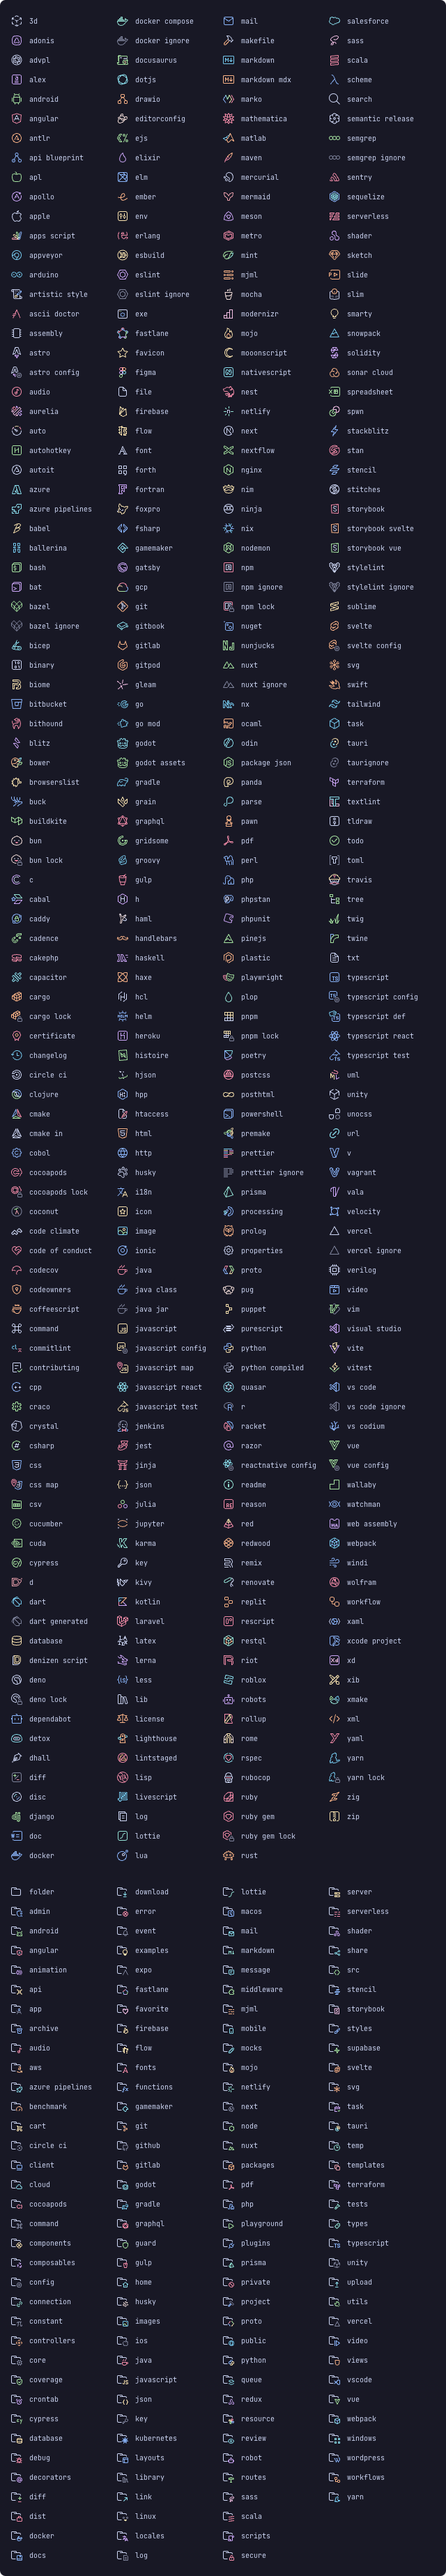
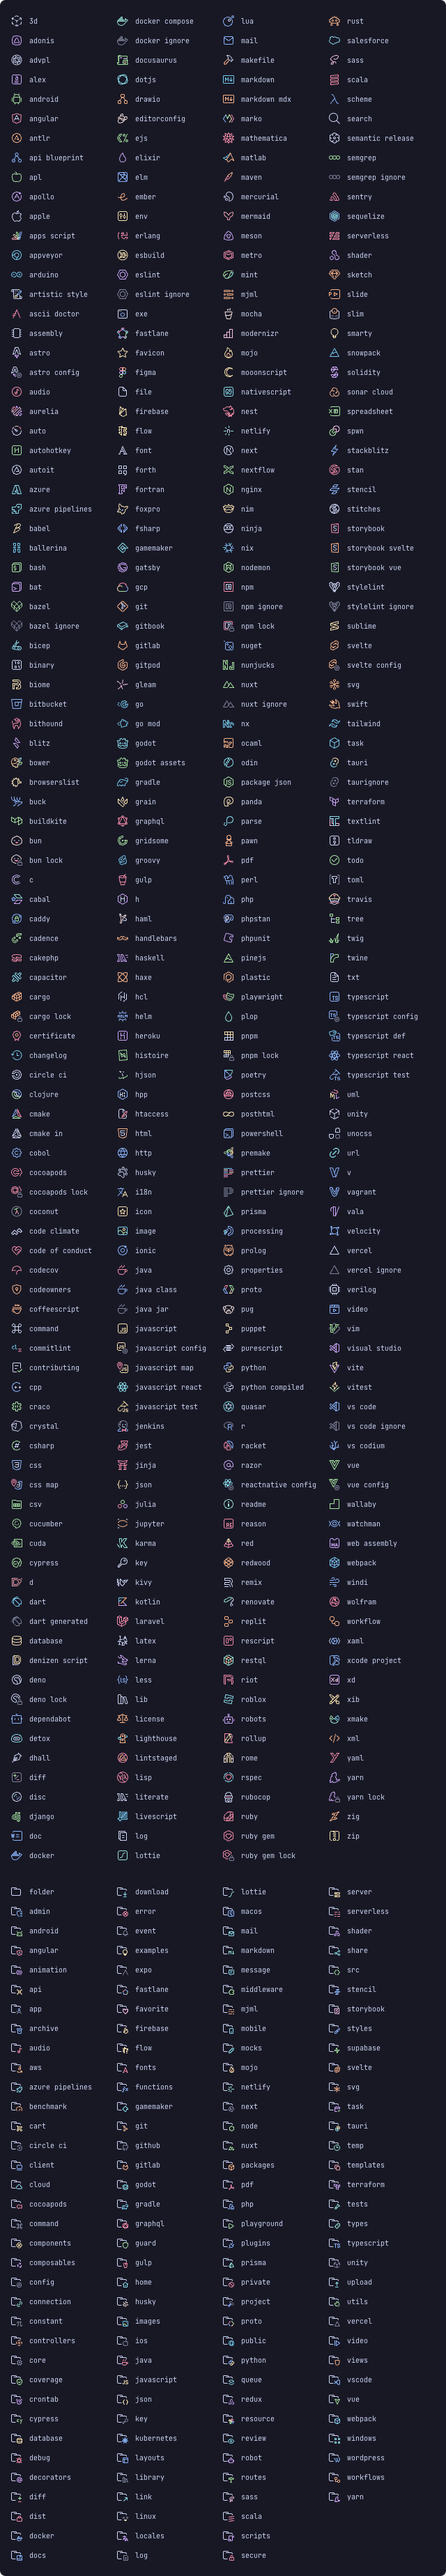
Add customization scripts

diff --git a/command/index.js b/command/index.js
@@ -1,0 +1,92 @@
+const fs = require("fs");
+const path = require("path");
+const os = require("os");
+
+const extensionId = "thang-nm.catppuccin-perfect-icons";
+const command = process.argv[2];
+
+switch (command) {
+  case "hide_arrow":
+    setArrowHidden(true);
+    break;
+  case "show_arrow":
+    setArrowHidden(false);
+    break;
+  case "hide_folder":
+    setFolderHidden(true);
+    break;
+  case "show_folder":
+    setFolderHidden(false);
+    break;
+  default:
+    console.error("No command to run!");
+    process.exit(0);
+}
+
+console.log("🌈 Done!");
+
+function setArrowHidden(hidden) {
+  mutate((json) => {
+    json.hidesExplorerArrows = hidden;
+    return json;
+  });
+}
+
+function setFolderHidden(hidden) {
+  mutate((json) => {
+    if (hidden && Object.keys(json.folderNames || {}).length) {
+      json.hidesExplorerArrows = false;
+      json.folder_2 = json.folder;
+      json.folderExpanded_2 = json.folderExpanded;
+      json.folderNames_2 = json.folderNames;
+      json.folderNamesExpanded_2 = json.folderNamesExpanded;
+      json.folderNames = {};
+      json.folderNamesExpanded = {};
+      delete json.folder;
+      delete json.folderExpanded;
+      return json;
+    }
+    if (!hidden && Object.keys(json.folderNames_2 || {}).length) {
+      json.hidesExplorerArrows = false;
+      json.folder = json.folder_2;
+      json.folderExpanded = json.folderExpanded_2;
+      json.folderNames = json.folderNames_2;
+      json.folderNamesExpanded = json.folderNamesExpanded_2;
+      delete json.folder_2;
+      delete json.folderExpanded_2;
+      delete json.folderNames_2;
+      delete json.folderNamesExpanded_2;
+      return json;
+    }
+    return null;
+  });
+}
+
+function mutate(callback) {
+  const themesDir = path.join(extensionFolder(), "themes");
+  const themes = fs.readdirSync(themesDir);
+  for (let theme of themes) {
+    if (!fs.lstatSync(path.join(themesDir, theme)).isDirectory()) {
+      continue;
+    }
+    const jsonPath = path.join(themesDir, theme, "theme.json");
+    const jsonString = fs.readFileSync(jsonPath);
+    const json = callback(JSON.parse(jsonString));
+    if (json) {
+      fs.writeFileSync(jsonPath, JSON.stringify(json));
+    }
+  }
+}
+
+function extensionFolder() {
+  const extensionsPath = path.join(
+    os.homedir(),
+    ".vscode",
+    "extensions",
+    "extensions.json"
+  );
+  const extensionsString = fs.readFileSync(extensionsPath);
+  const json = JSON.parse(extensionsString);
+  const extension = json.find((ext) => ext.identifier.id === extensionId);
+  return extension.location.path;
+}

diff --git a/src/associations/extensions.ts b/src/associations/extensions.ts
@@ -148,7 +148,7 @@ export const extensions: IconMap = {
   h: ['h'],
   haml: ['haml'],
   handlebars: ['hbs', 'mustache'],
-  haskell: ['hs', 'lhs'],
+  haskell: ['hs'],
   haxe: ['hx', 'hxml'],
   hcl: ['hcl'],
   hjson: ['hjson'],
@@ -253,6 +253,7 @@ export const extensions: IconMap = {
   less: ['less'],
   lib: ['lib', 'bib', 'dll', 'dlc'],
   lisp: ['lisp', 'lsp', 'cl', 'fast'],
+  literate: ['lhs'],
   livescript: ['ls'],
   log: ['log'],
   lottie: ['lottie'],

diff --git a/README.md b/README.md
@@ -1,9 +1,7 @@
-<h3 align="center">
+<h1 align="center">
   <img src="https://raw.githubusercontent.com/thang-nm/Catppuccin-Perfect-Icons/main/logo.png" width="160" alt="Logo"/><br/>
-  <img src="https://raw.githubusercontent.com/catppuccin/catppuccin/main/assets/misc/transparent.png" height="30" width="0px"/>
-  <a href="https://github.com/thang-nm/Catppuccin-Perfect-Icons">Catppuccin Perfect Icons</a>
-  <img src="https://raw.githubusercontent.com/catppuccin/catppuccin/main/assets/misc/transparent.png" height="30" width="0px"/>
-</h3>
+  <a href="https://marketplace.visualstudio.com/items?itemName=thang-nm.catppuccin-perfect-icons">Catppuccin Perfect Icons</a>
+</h1>
 
 <p align="center">
   Unofficial. Pixel perfect + more icons + new palettes
@@ -18,18 +16,96 @@
 </p>
 
 <p align="center">
+  <br />
+  ✨✨✨ Something NEW below! Scroll down for more! ✨✨✨
+  <br />
+</p>
+
+## 🏞 Preview
+
+<br />
+
+<p align="center">
   <img width="640" src="https://raw.githubusercontent.com/thang-nm/Catppuccin-Perfect-Icons/main/assets/previews/mocha-icons@2x.png?t=20230915">
 </p>
 
-## Usage
+## ⭐ Customization
 
-1. Install the [icon theme extension](https://marketplace.visualstudio.com/items?itemName=thang-nm.catppuccin-perfect-icons)
-2. Press <kbd>Ctrl</kbd>+<kbd>Shift</kbd>+<kbd>P</kbd> or <kbd>⌘</kbd>+<kbd>⇧</kbd>+<kbd>P</kbd>
-3. Type in `> File Icon Theme` and press enter
-4. Select your flavor and press enter
-5. Enjoy!
+### 🚦 Before you continue
 
-&nbsp;
+Just keep in mind that I want to keep it simple and avoid using any JavaScript code. Therefore, I've created some commands to assist you in customization. The executable code is located in the `command/index.js` file, and you have the option to review it before execution. I am not liable for any issues that may arise.
+
+### Requirement
+
+- NodeJS (12+)
+
+- macOS (tested) / Linux (not tested yet) / Windows with Git Bash (not tested yet)
+
+- You need to rerun the command whenever there is an update.
+
+### Commands
+
+- Hide the arrows from folder icons
+
+  macOS / Linux:
+
+  ```
+  node ~/.vscode/extensions/thang-nm.cat*/command hide_arrow
+  ```
+
+  Windows:
+
+  ```
+  curl -sL https://raw.githubusercontent.com/thang-nm/Catppuccin-Perfect-Icons/main/command/index.js | node - hide_arrow
+  ```
+
+- Show the arrows from folder icons
+
+  macOS / Linux:
+
+  ```
+  node ~/.vscode/extensions/thang-nm.cat*/command show_arrow
+  ```
+
+  Windows:
+
+  ```
+  curl -sL https://raw.githubusercontent.com/thang-nm/Catppuccin-Perfect-Icons/main/command/index.js | node - show_arrow
+  ```
+
+- Hide the folder icons (Only use the arrows)
+
+  macOS / Linux:
+
+  ```
+  node ~/.vscode/extensions/thang-nm.cat*/command hide_folder
+  ```
+
+  Windows:
+
+  ```
+  curl -sL https://raw.githubusercontent.com/thang-nm/Catppuccin-Perfect-Icons/main/command/index.js | node - hide_folder
+  ```
+
+- Show the folder icons (Back to original)
+
+  macOS / Linux:
+
+  ```
+  node ~/.vscode/extensions/thang-nm.cat*/command show_folder
+  ```
+
+  Windows:
+
+  ```
+  curl -sL https://raw.githubusercontent.com/thang-nm/Catppuccin-Perfect-Icons/main/command/index.js | node - show_folder
+  ```
+
+_You can make aliases for those commands to make them easier to run._
+
+<br />
+<br />
+<br />
 
 <p align="center">
   <img src="https://raw.githubusercontent.com/catppuccin/catppuccin/main/assets/footers/gray0_ctp_on_line.png"/>
